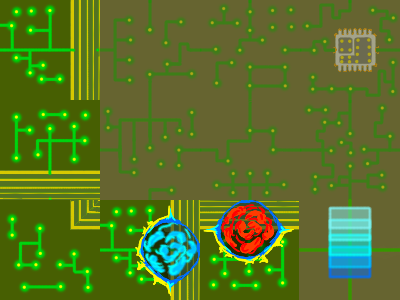
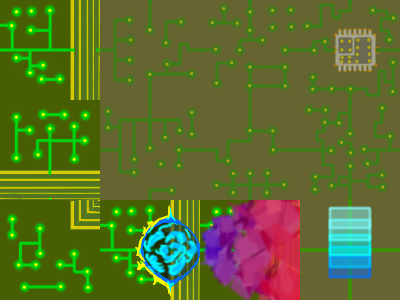
Moved assets into proper directory. Updated which frames are loaded for parents.

Changed region(s): [[0.48, 0.66, 0.75, 1.0]]

diff --git a/src/world/world.js b/src/world/world.js
@@ -257,7 +257,7 @@ class EnvNode {
   	var jump = 1;
 
   	for(var parent of this.parents){
-  		this.tileSet[0][Pindex] = new Door(0, 100*Pindex, 1, 1, 100, 100, tileFrames.door1, parent);
+  		this.tileSet[0][Pindex] = new Door(0, 100*Pindex, 1, 1, 100, 100, tileFrames.door2, parent);
   		if(direction){
   			Pindex = Pindex + jump;
   			direction = false;
